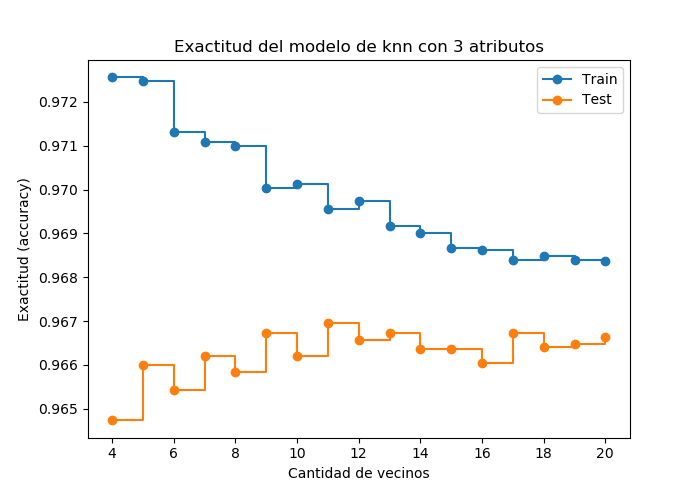
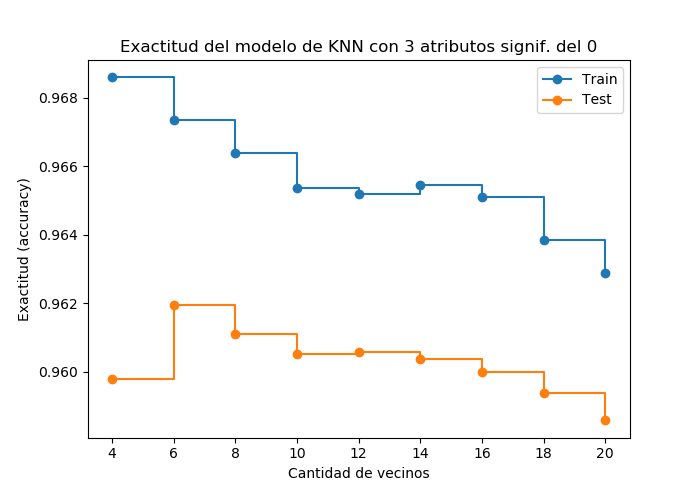
juan

diff --git a/digitos_altaData.py b/digitos_altaData.py
@@ -245,7 +245,7 @@ X = df_binario.iloc[:,np.squeeze(atributos_aleatorios_ceros)]
 Y = df_binario.digito
 
 Nrep = 5
-valores_n = range(4,21,1)
+valores_n = range(4,21,2)
 
 resultados_test = np.zeros((Nrep, len(valores_n)))
 resultados_train = np.zeros((Nrep, len(valores_n)))
@@ -284,13 +284,151 @@ plt.figure(figsize=(7,5),dpi=100)
 plt.plot(valores_n, promedios_train, label = 'Train',marker="o",drawstyle="steps-post")
 plt.plot(valores_n, promedios_test, label = 'Test',marker="o",drawstyle="steps-post")
 plt.legend()
-plt.title('Exactitud del modelo de knn con 3 atributos')
+plt.title('Exactitud del modelo de KNN con 3 atributos signif. del 0')
 plt.xlabel('Cantidad de vecinos')
 plt.ylabel('Exactitud (accuracy)')
 archive = "./data/knn_k_vecinos_3_atributos_significativos.png"
 plt.savefig(archive)
 #%% Elegimos 3 atributos aleatoriamente pero de todos los pixeles
-pixeles = 
+pixeles = np.arange(1,785)
+subset_pixels = [] 
+for i in range (0,4):
+    muestra = np.random.choice(pixeles, 3, replace=False)
+    subset_pixels.append(muestra)
+    
+    
+test_tot=[]
+train_tot=[]
+
+for m in subset_pixels:
+    X = df_binario.iloc[:,np.squeeze(m)]
+    resultados_test = np.zeros((Nrep, len(valores_n)))
+    resultados_train = np.zeros((Nrep, len(valores_n)))
+    cms = []
+    for i in range(Nrep):
+        j=0
+        X_train, X_test, Y_train, Y_test = train_test_split(X, Y, test_size = 0.3)
+        while j < len(valores_n):
+            k = valores_n[j]
+            model = KNeighborsClassifier(n_neighbors = k)
+            model.fit(X_train, Y_train) 
+            Y_pred = model.predict(X_test)
+            Y_pred_train = model.predict(X_train)
+            cm = metrics.confusion_matrix(Y_test, Y_pred)
+            acc_test = metrics.accuracy_score(Y_test, Y_pred)
+            acc_train = metrics.accuracy_score(Y_train, Y_pred_train)
+            resultados_test[i, j] = acc_test
+            resultados_train[i, j] = acc_train
+            cms.append(cm)
+            j=j+1 
+    test_tot.append(np.mean(resultados_test,axis=0))
+    train_tot.append(np.mean(resultados_train,axis=0))       
+#        disp = metrics.ConfusionMatrixDisplay(confusion_matrix=cm,
+#                                        display_labels=model.classes_)
+#        disp.plot()
+#        print("Exactitud del modelo:", metrics.accuracy_score(Y_test, Y_pred))
+#        print("Precisión del modelo: ", metrics.precision_score(Y_test, Y_pred, pos_label=1))
+#        print("Sensitividad del modelo: ", metrics.recall_score(Y_test, Y_pred, pos_label=1))
+#        print("F1 Score del modelo: ", metrics.f1_score(Y_test, Y_pred, pos_label=1))
+#%%
+plt.figure(figsize=(7,5),dpi=100)
+for i in range(0,4):
+    plt.plot(valores_n, train_tot[i], label = 'Train',marker="o",drawstyle="steps-post")
+    plt.plot(valores_n, test_tot[i], label = 'Test',marker="o",drawstyle="steps-post")
+    plt.legend()
+    plt.title('Exactitud de KNN con 3 atributos aleatorios (muestra: {})'.format(subset_pixels[i]))
+    plt.xlabel('Cantidad de vecinos')
+    plt.ylabel('Exactitud (accuracy)')
+    plt.show()
+    
+    
+#%% Variando el tamaño de la muestra y evaluando para varios k
+subset_pixels_difsize = [4,6,8,10,12]
+muestras_dif_size = [] 
+for i in range (0,5):
+    muestra = np.random.choice(pixeles, subset_pixels_difsize[i], replace=False)
+    muestras_dif_size.append(muestra)
+    
+    
+test_tot_difsize=[]
+train_tot_difsize=[]
+
+for m in muestras_dif_size:
+    X = df_binario.iloc[:,np.squeeze(m)]
+    resultados_test = np.zeros((Nrep, len(valores_n)))
+    resultados_train = np.zeros((Nrep, len(valores_n)))
+    cms = []
+    for i in range(Nrep):
+        j=0
+        X_train, X_test, Y_train, Y_test = train_test_split(X, Y, test_size = 0.3)
+        while j < len(valores_n):
+            k = valores_n[j]
+            model = KNeighborsClassifier(n_neighbors = k)
+            model.fit(X_train, Y_train) 
+            Y_pred = model.predict(X_test)
+            Y_pred_train = model.predict(X_train)
+            cm = metrics.confusion_matrix(Y_test, Y_pred)
+            acc_test = metrics.accuracy_score(Y_test, Y_pred)
+            acc_train = metrics.accuracy_score(Y_train, Y_pred_train)
+            resultados_test[i, j] = acc_test
+            resultados_train[i, j] = acc_train
+            cms.append(cm)
+            j=j+1 
+    test_tot_difsize.append(np.mean(resultados_test,axis=0))
+    train_tot_difsize.append(np.mean(resultados_train,axis=0))
+
+#%%
+plt.figure(figsize=(7,5),dpi=100)
+for i in range(0,4):
+    plt.plot(valores_n, train_tot_difsize[i], label = 'Train',marker="o",drawstyle="steps-post")
+    plt.plot(valores_n, test_tot_difsize[i], label = 'Test',marker="o",drawstyle="steps-post")
+    plt.legend()
+    plt.title('Exactitud del modelo de knn con 3 atributos (tamaño de muestra: {})'.format(muestras_dif_size[i].size))
+    plt.xlabel('Cantidad de vecinos')
+    plt.ylabel('Exactitud (accuracy)')
+    plt.show()
+
+#%% Variando el tamaño de la muestra y evaluando para K = 12
+subset_pixels_difsize = [4,6,8,10,12,16,18,20,22,24,26,28,30]
+muestras_dif_size = [] 
+for i in range (0,len(subset_pixels_difsize)):
+    muestra = np.random.choice(pixeles, subset_pixels_difsize[i], replace=False)
+    muestras_dif_size.append(muestra)
+
+    
+test_tot_difsize_kfijo=[]
+train_tot_difsize_kfijo=[]
+
+for m in muestras_dif_size:
+    X = df_binario.iloc[:,np.squeeze(m)]
+    resultados_test = np.zeros(Nrep)
+    resultados_train = np.zeros(Nrep)
+    cms = []
+    for i in range(Nrep):
+        j=0
+        X_train, X_test, Y_train, Y_test = train_test_split(X, Y, test_size = 0.3)
+        model = KNeighborsClassifier(n_neighbors = 12)
+        model.fit(X_train, Y_train) 
+        Y_pred = model.predict(X_test)
+        Y_pred_train = model.predict(X_train)
+        cm = metrics.confusion_matrix(Y_test, Y_pred)
+        acc_test = metrics.accuracy_score(Y_test, Y_pred)
+        acc_train = metrics.accuracy_score(Y_train, Y_pred_train)
+        resultados_test[i] = acc_test
+        resultados_train[i] = acc_train
+        cms.append(cm)
+    test_tot_difsize_kfijo.append(np.mean(resultados_test))
+    train_tot_difsize_kfijo.append(np.mean(resultados_train))
+
+#%%
+plt.figure(figsize=(7,5),dpi=100)
+plt.plot(subset_pixels_difsize, train_tot_difsize_kfijo, label = 'Train',marker="o",drawstyle="steps-post")
+plt.plot(subset_pixels_difsize, test_tot_difsize_kfijo, label = 'Test',marker="o",drawstyle="steps-post")
+plt.legend()
+plt.title('Exactitud del modelo de KNN según cantidad de atributos (K = 12)')
+plt.xlabel('Cantidad de atributos')
+plt.ylabel('Exactitud (accuracy)')
+plt.show() 
 #%%
 # =============================================================================
 # Ejercicio 5
